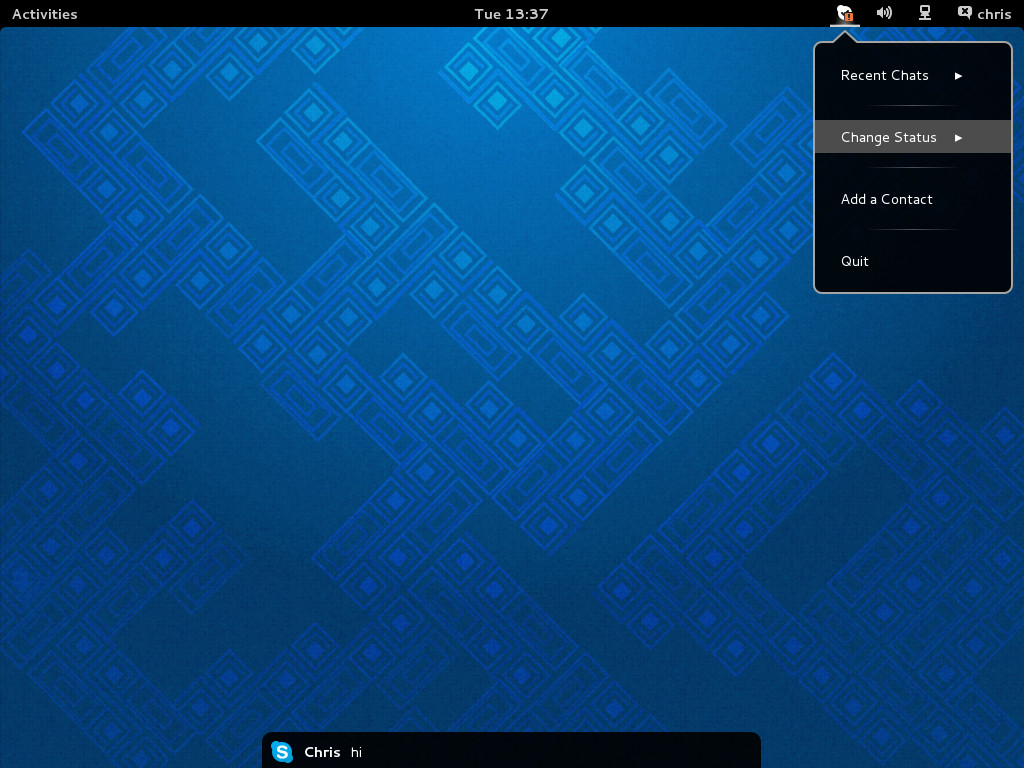
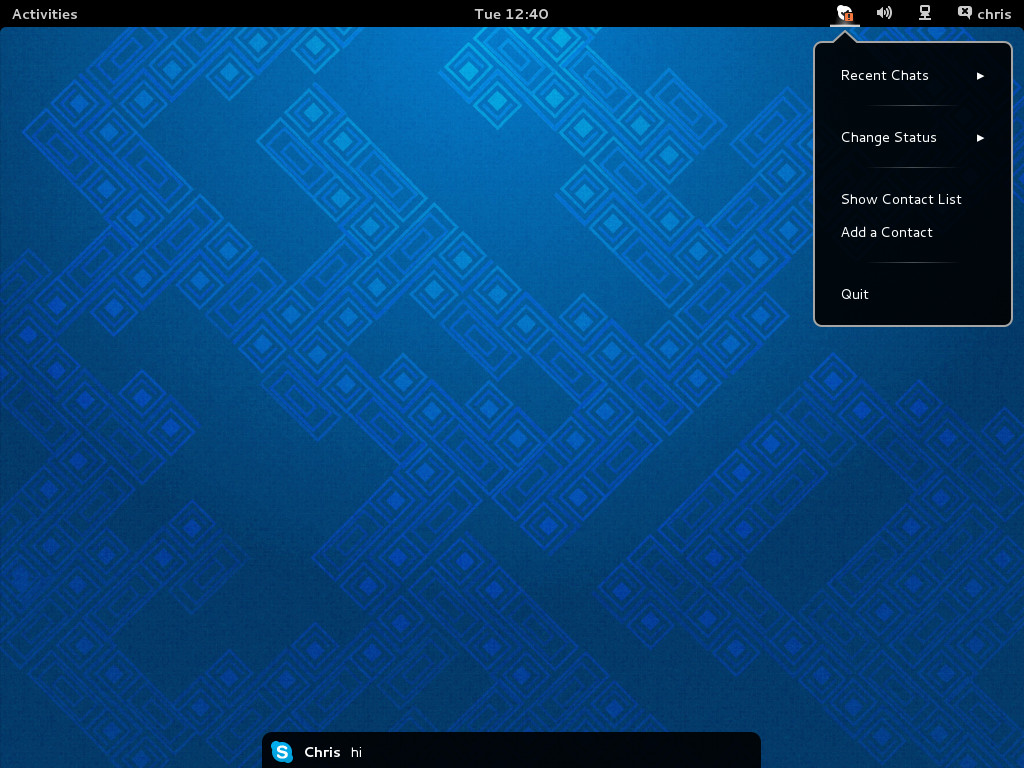
updated screenshot; added indicator to recent chat titles

diff --git a/SkypeNotification@chrisss404.gmail.com/skype.js b/SkypeNotification@chrisss404.gmail.com/skype.js
@@ -74,6 +74,7 @@ const Skype = new Lang.Class({
         this._authenticated = false;
         this._currentUserHandle = "";
         this._currentPresence = "ONLINE";
+        this._missedChats = "";
         this._config = null;
         this._searchProvider = null;
         this._skypeMenu = null;
@@ -168,7 +169,8 @@ const Skype = new Lang.Class({
     },
 
     _onMissedChat: function(answer) {
-        if(answer[0] !== "CHATS ") {
+        this._missedChats = answer[0];
+        if(this._missedChats !== "CHATS ") {
             if(!this._skypeMenuAlert) {
                 this._skypeMenuAlert = true;
                 this._setUserPresenceMenuIcon();
@@ -408,6 +410,11 @@ const Skype = new Lang.Class({
             if(record["title"].length > 39) {
                 record["title"] = record["title"].substr(0, 39) + "...";
             }
+
+            if(this._missedChats.indexOf(chats[index]) !== -1) {
+                record["title"] = "* " + record["title"];
+            }
+
             results.push(record);
         }
         return results;
